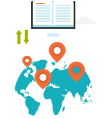
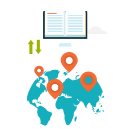
hero slides

Changed region(s): [[0.1429, 0.3277, 0.8857, 0.9832], [0.1429, 0.0, 0.7429, 0.4286]]

diff --git a/app/scripts/main.js b/app/scripts/main.js
@@ -55,7 +55,8 @@ const heroSlider = document.querySelector('.hero__slider .glide');
 if (heroSlider) {
   const heroSliderG = new Glide(heroSlider, {
     perView: 1,
-    gap: 0
+    gap: 0,
+    startAt: 1
   });
 
   heroSliderG.on('move', function() {
